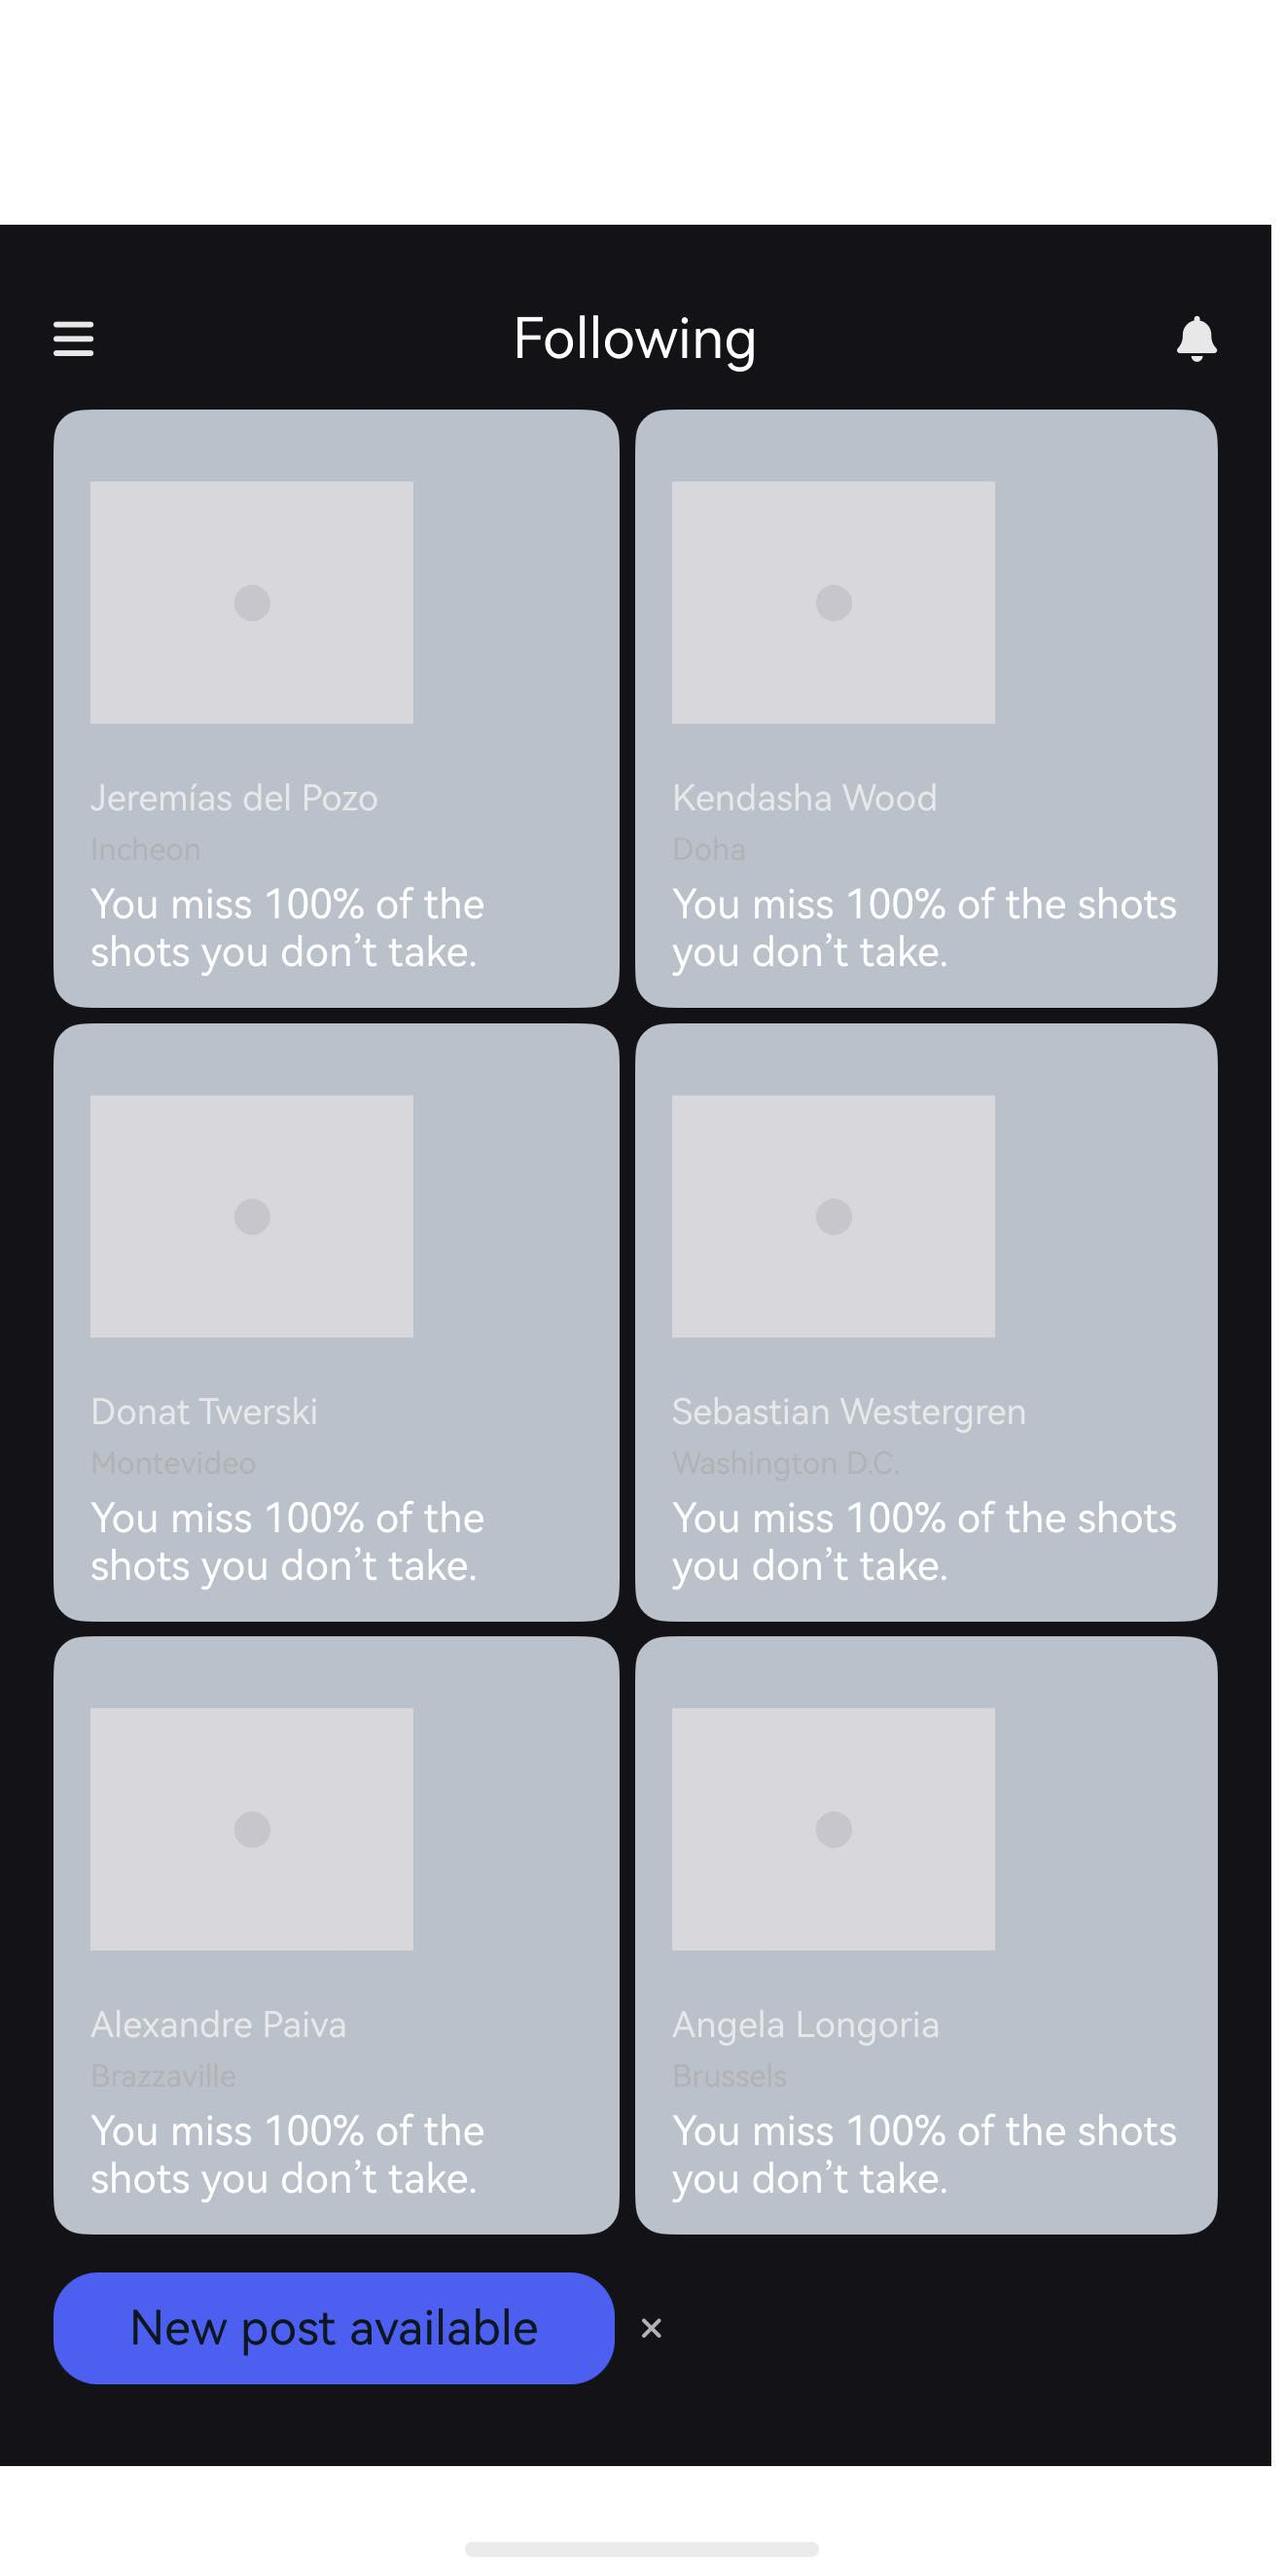
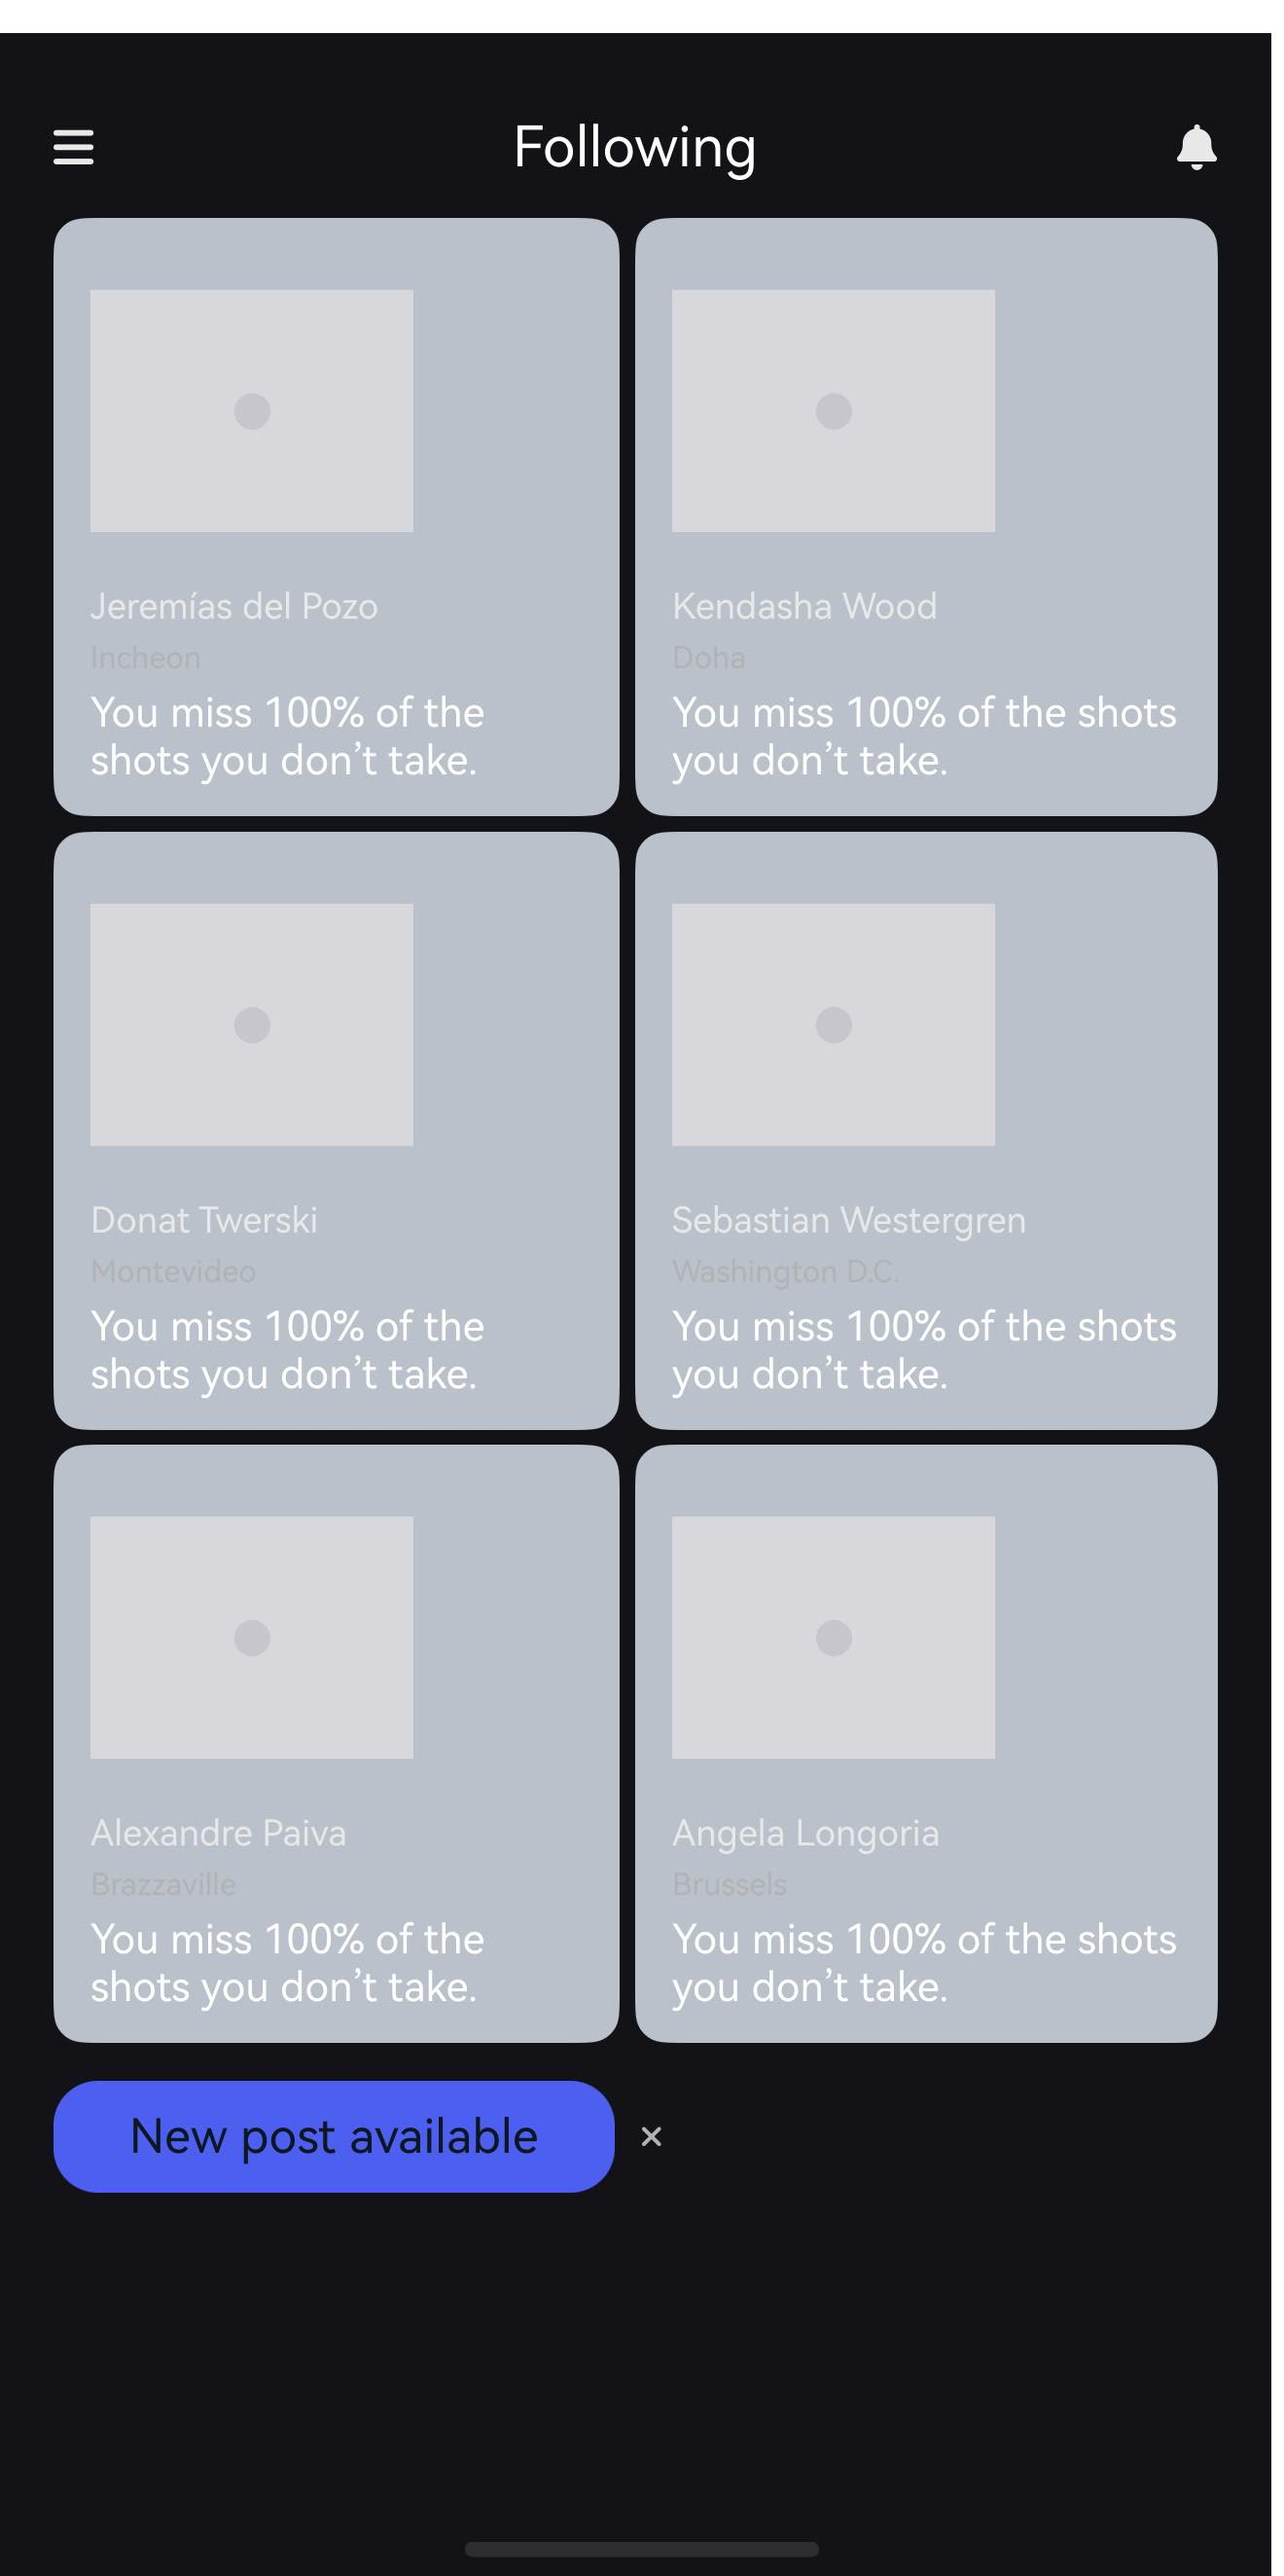
feat(l0-ohos): aligned captures + BOTH phone rails strict-judged
devoh recaptured after the alignment fix; strict_oh.jsonl (ArkUI median 3,
10 rework/5 reject) and strict_droid.jsonl (makepad-Android median 3) —
the phone rails are now inside the measurement loop, not beside it.
Known ArkUI defect: Calendar_View_3 renders near-blank (1/10).

diff --git a/lab/sketch/gen_ohos_atro.py b/lab/sketch/gen_ohos_atro.py
@@ -54,6 +54,35 @@ def adapt(kit: str) -> str:
         s = re.sub(rf"\b{key}\s*:\s*[^,}}\n]+,?\s*", "", s)
     s = re.sub(r",\s*}", "}", s)
     s = re.sub(r"{\s*,", "{", s)
+    # OH overrides, appended so the later definition wins: ArkUI stacks center
+    # children by default and percent-fill has no meaning inside them — pages
+    # and pin layers take the frame in vp, and ALIGNMENT does the pinning
+    # (aligny on a fixed-height column justifies its children to top/center/end).
+    s += """
+
+fn l0_surface(kids) {
+    return {t: "column", w: 402, h: 830, bg: l0_base,
+            padx: pad_page_x, pady: 26, spacing: 12, c: kids}
+}
+fn l0_surface_layer(kids, y) {
+    return {t: "column", w: 402, h: 830, aligny: y,
+            padx: pad_page_x, pady: 26, spacing: 12, c: kids}
+}
+fn l0_surface_pin2(top, bottom) {
+    return {t: "stack", w: 402, h: 830, align: 1, bg: l0_base,
+            c: [l0_surface_layer(top, 0), l0_surface_layer(bottom, 1)]}
+}
+fn l0_surface_pin3(top, mid, bottom) {
+    return {t: "stack", w: 402, h: 830, align: 1, bg: l0_base,
+            c: [l0_surface_layer(top, 0), l0_surface_layer(mid, 0.5),
+                l0_surface_layer(bottom, 1)]}
+}
+fn l0_surface_fab(page, fab) {
+    return {t: "stack", w: 402, h: 830, align: 1, c: [page,
+        {t: "column", w: 402, h: 830, alignx: 1, aligny: 1,
+         padx: pad_page_x, pady: 26, c: [fab]}]}
+}
+"""
     return s
 
 
@@ -168,7 +197,7 @@ def main():
                  f"{derive_color}\n{derive}")
         flat = flatten_palette(chain)
         src = (f"{POLYFILL}\n{state_lets(card)}\n{chain}\n{flat}\n{rescale}\n{kit}\n"
-               f'{{t: "stack", w: 402, h: 830, c: [\n{tree},\n'
+               f'{{t: "stack", w: 402, h: 830, align: 1, c: [\n{tree},\n'
                f'  {{t: "column", h: 34, fillw: 1, tapto: {json.dumps(nxt)}}}\n]}}\n')
         (out_dir / f"{name}.splash").write_text(src)
         rows.append(f'    ("{name}", include_str!("../assets/atro/{name}.splash")),')
